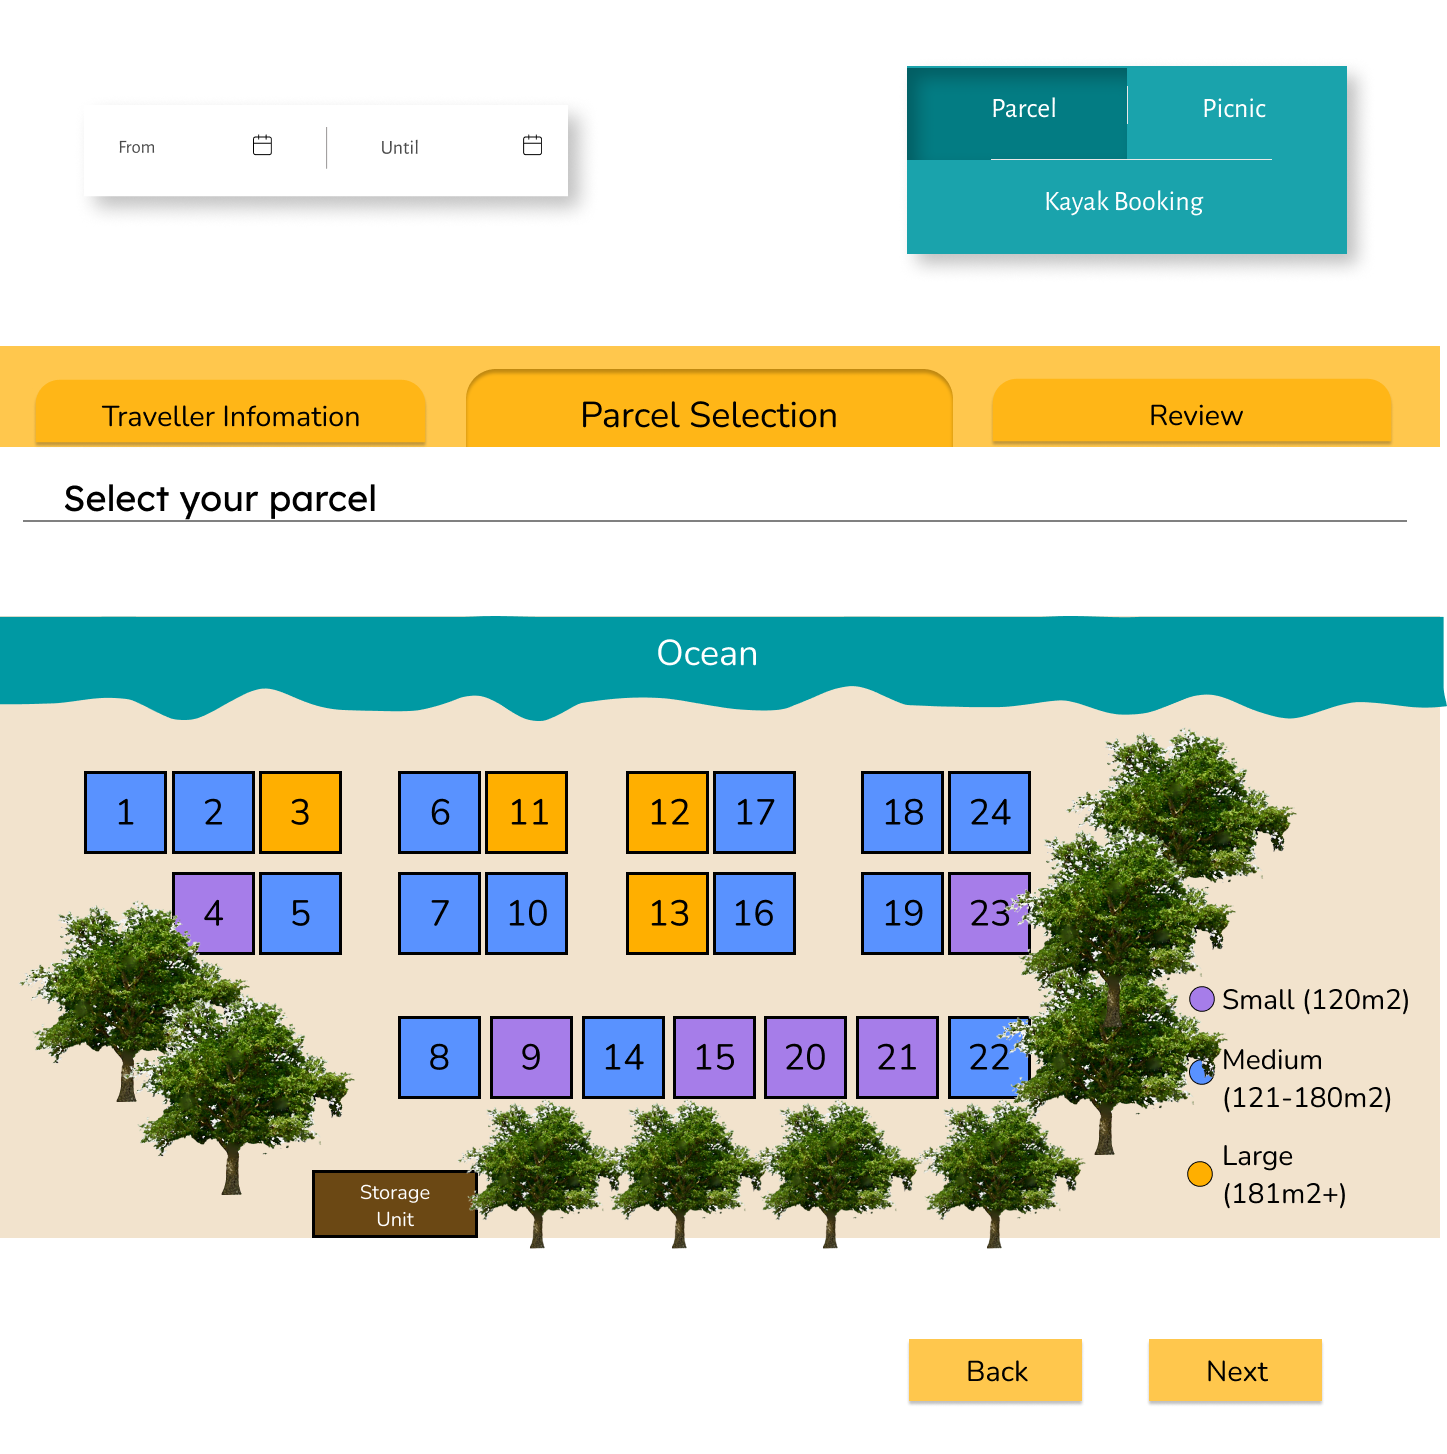
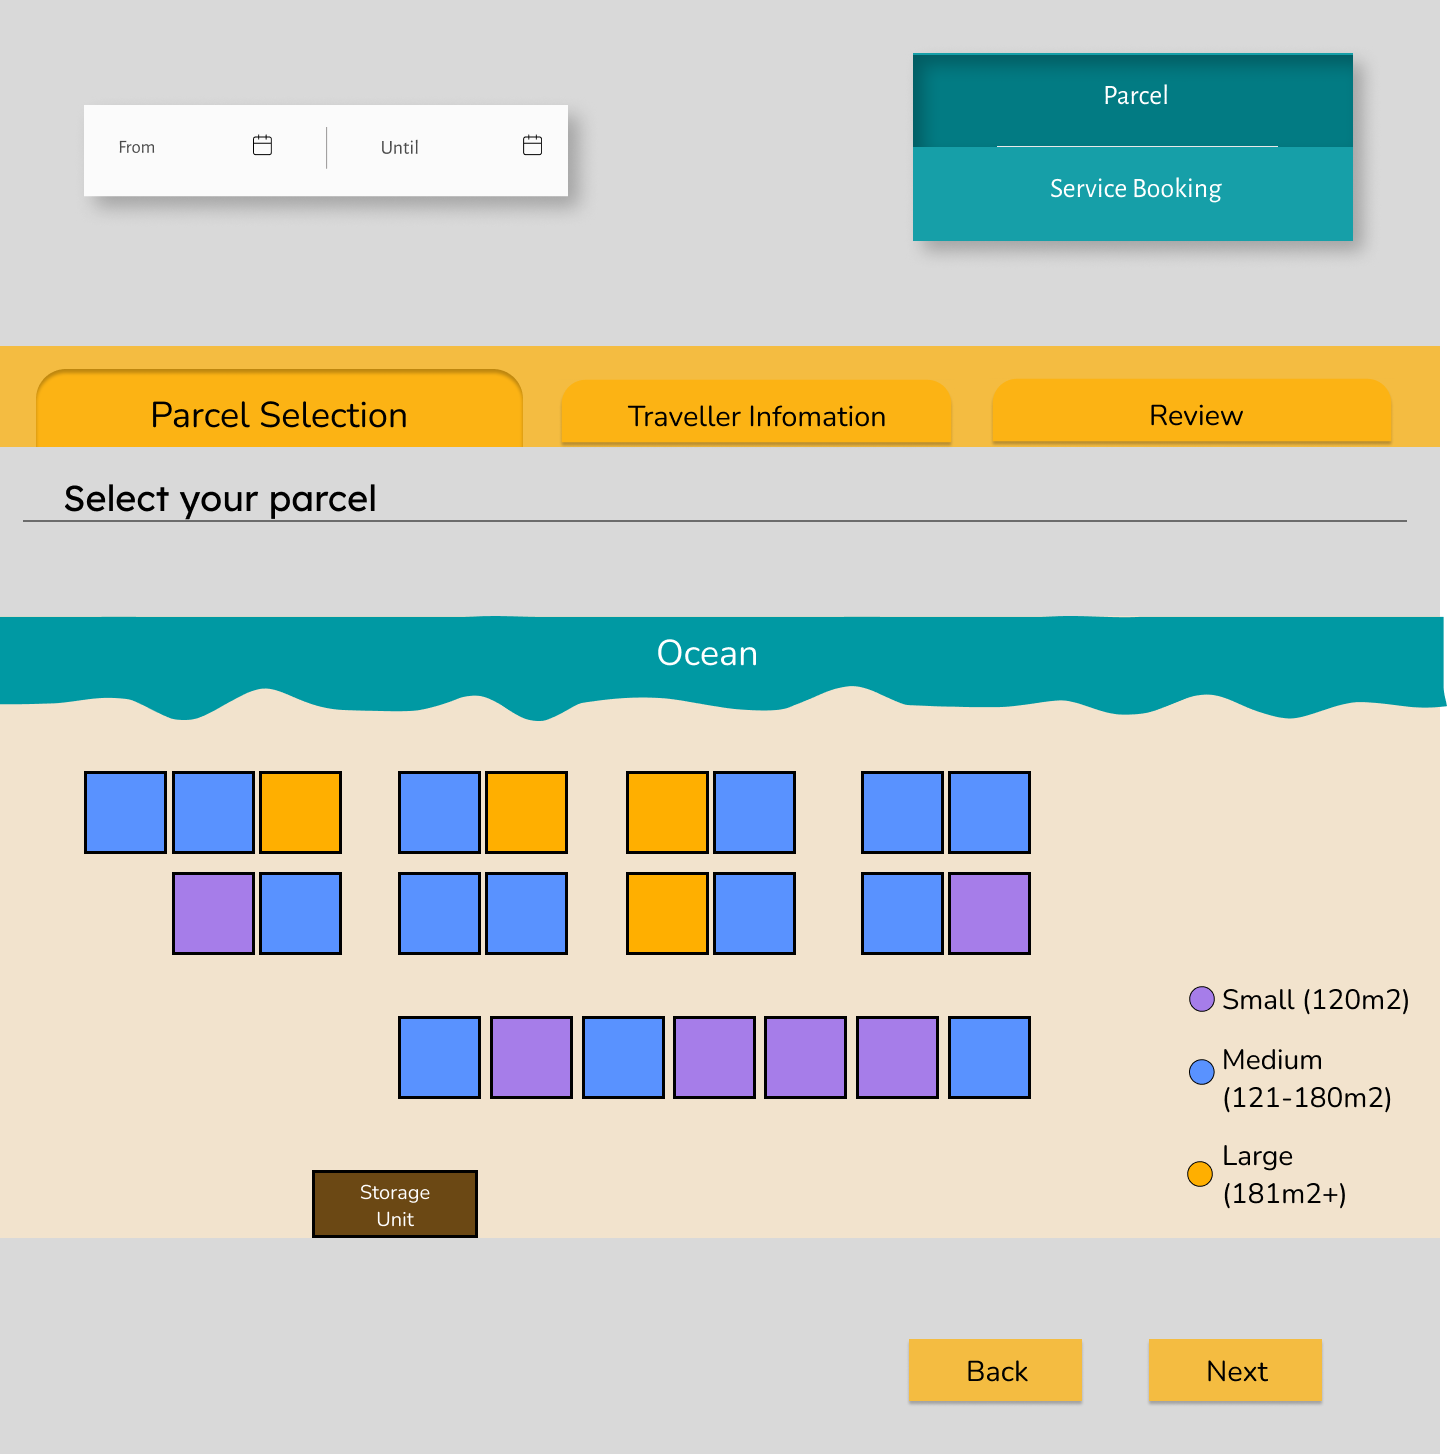
Agrega los mockups para este primer sprint

diff --git a/design/mockup/Readme_mockup.md b/design/mockup/Readme_mockup.md
@@ -1,13 +1,1 @@
-En los siguientes archivos PNG se presentan las propuestas iniciales de los diseños que tendrá la aplicación web.
-
-About us: contendrá información de la organización 
-
-Activities: contendrá los servicios ofrecidos por la organización 
-
-Admin page: contiene la vista del lado del administrador
-
-Contact: información de contacto de la organización
-
-Landing page: es el home page de la aplicación 
-
-Reservation pages (son dos): muestra la vista cuando se intenta generar una reservación 
+En los siguientes archivos PNG se presentan los esquemas iniciales para el componente visual de este sprint. Sólamente se desarrolla el módulo de reservas. 
